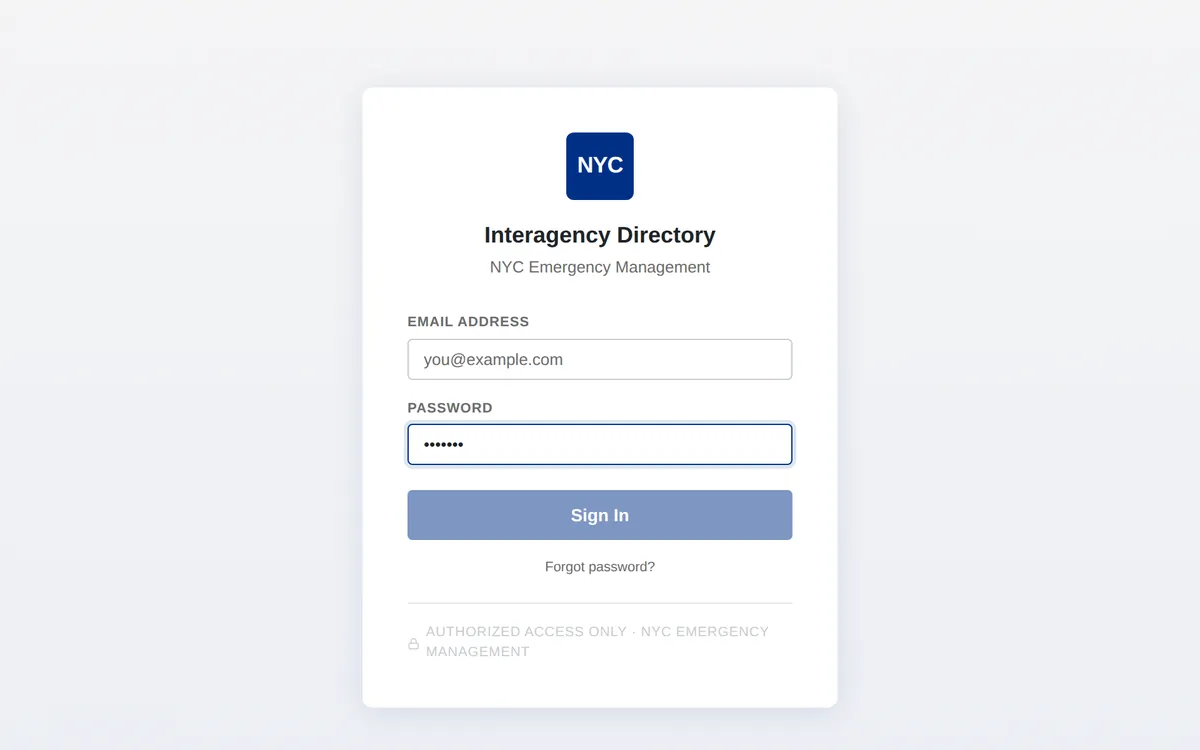
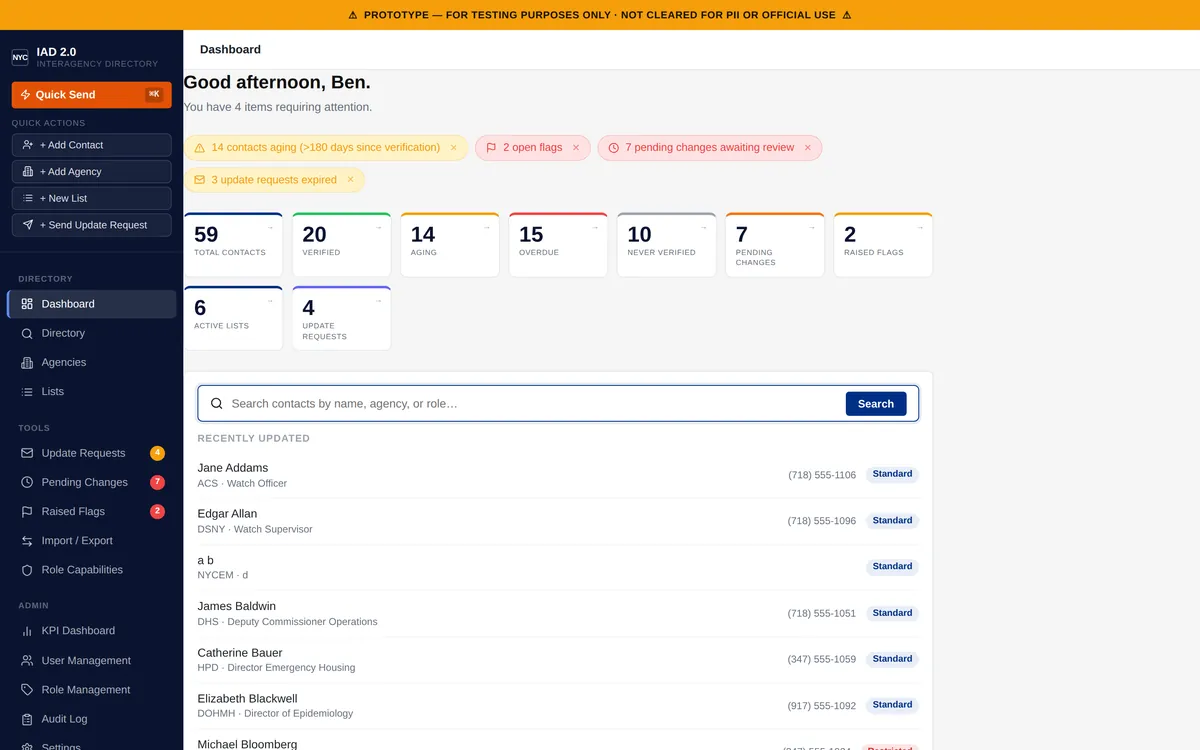
Replace IAD tile image with authenticated directory dashboard
Signed into IAD 2.0 with an owner-provided demo credential and captured the
directory dashboard (KPI cards, alert queue, recently-updated contacts —
seeded demo data) in place of the sign-in screen. Updates the tile image,
alt text, and README provenance accordingly.

Claude-Session: https://claude.ai/code/session_013ysy9Lc2BFScPPcbWmgFFd

diff --git a/src/index.html b/src/index.html
@@ -133,7 +133,7 @@
       <li class="tile" role="listitem">
         <button class="tile-toggle" aria-expanded="false" aria-controls="panel-6" id="tab-6">
           <span class="tile-media">
-            <img src="assets/images/iad.webp" alt="IAD 2.0 — interagency directory for NYC Emergency Management" width="1200" height="750" loading="eager" decoding="async" />
+            <img src="assets/images/iad.webp" alt="IAD 2.0 — interagency directory dashboard for NYC Emergency Management" width="1200" height="750" loading="eager" decoding="async" />
           </span>
           <span class="tile-head">
             <span class="tile-kicker">IAD 2.0 — Interagency Directory</span>

diff --git a/README.md b/README.md
@@ -139,12 +139,13 @@ required the "labeled preview" or "placeholder" fallback.
 | 3 | Document Translation Service | `translate.webp` | **Real screenshot** | Public landing / upload screen |
 | 4 | TravelReceipt | `travelreceipt.webp` | **Real screenshot** | Public landing (upload + target language + pricing) |
 | 5 | SnowCorps | `snowcorps.webp` | **Real screenshot** | Admin **Demo Mode** dashboard (KPIs, live claims feed, borough breakdown) |
-| 6 | IAD 2.0 — Interagency Directory | `iad.webp` | **Real screenshot** | Branded sign-in screen (the directory itself sits behind a real email/password login that could not be passed) |
+| 6 | IAD 2.0 — Interagency Directory | `iad.webp` | **Real screenshot** | Authenticated directory dashboard — KPI cards, alert queue, and recently-updated contacts (seeded demo data; fictional names + 555 numbers) |
 | 7 | Hazard Intelligence (dashboard + admin) | `hazardintel.webp` | **Real screenshot** | Post-gate Situational Dashboard (`inteldash`) — briefing products, hazard outlook, 5-day forecast, live alert/grid panels |
 
-Note on #6: IAD 2.0 uses a genuine email+password login (not a shared password wall),
-so the honest, representative capture is its branded sign-in page. The screenshot is a
-real capture of the live app, not a mock.
+Note on #6: IAD 2.0 uses a genuine email+password login (not a shared password wall).
+Captured by signing in with an owner-provided demo credential; the directory shown is
+seeded demo data (fictional contact names, 555 phone numbers), consistent with the app's
+own "PROTOTYPE — NOT CLEARED FOR PII" banner.
 
 ## Infrastructure (created for this site only)
 
